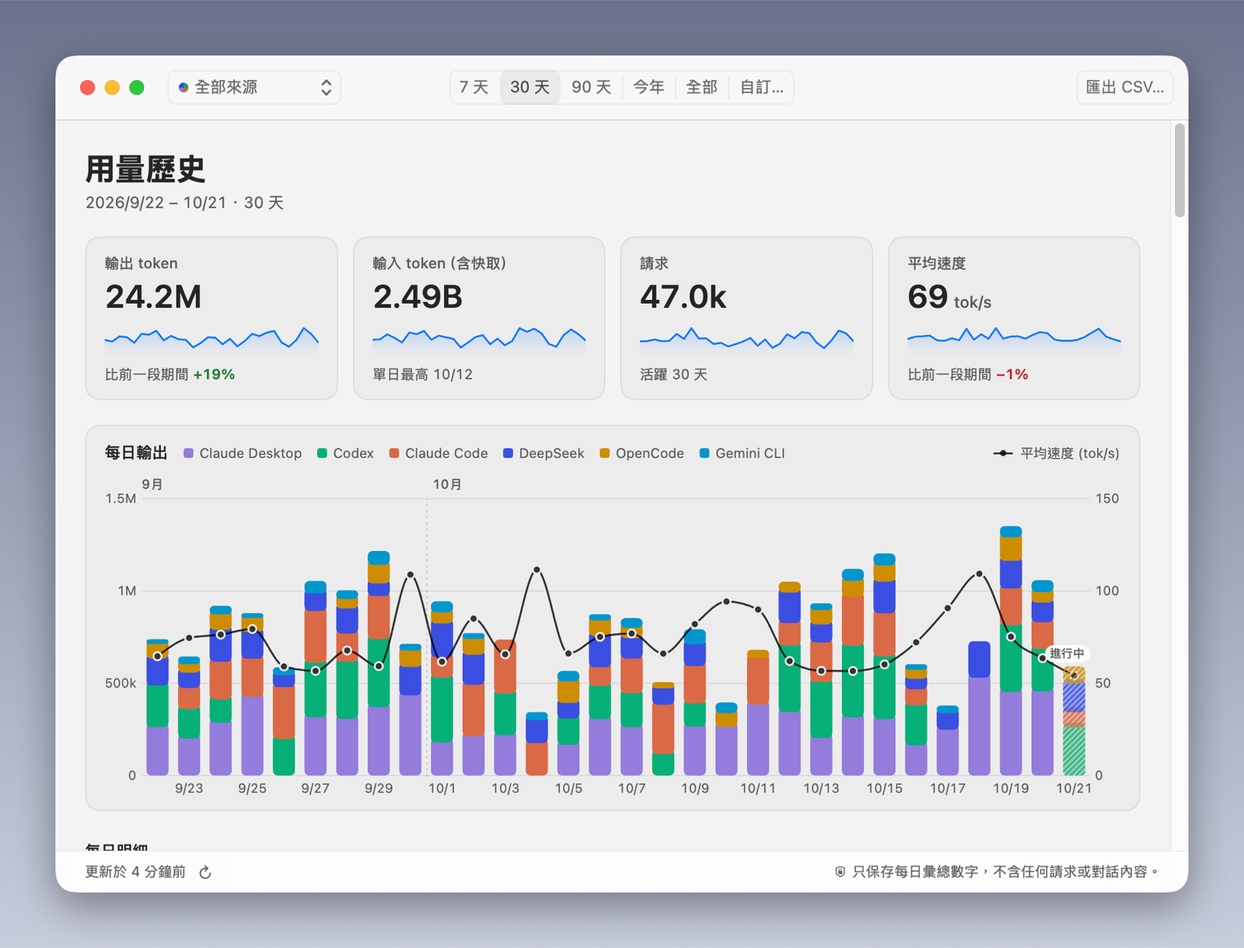
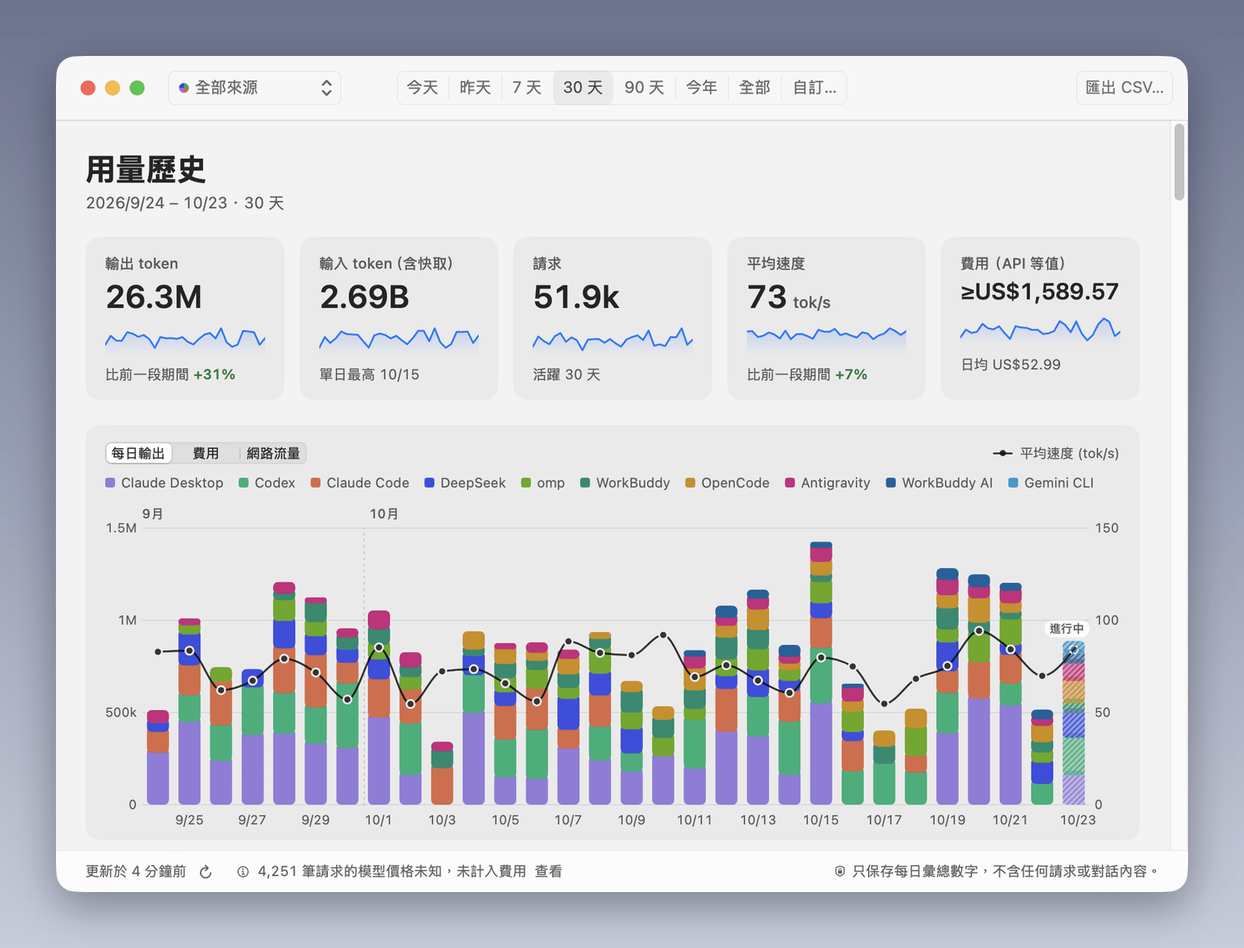
Prepare v1.3.0

diff --git a/README.md b/README.md
@@ -4,7 +4,7 @@
 
 # Agent Speed
 
-**Feel your AI agents run.** A native racing instrument for the live token speed of Codex, Claude Code, Claude Desktop, DeepSeek Harness, OpenCode and Gemini CLI — calm when idle, on fire at the redline.
+**Feel your AI agents run.** A native racing instrument for the live token speed of Codex, Claude Code, Claude Desktop, DeepSeek Harness, OpenCode, Gemini CLI, omp, Antigravity, WorkBuddy and WorkBuddy AI — calm when idle, on fire at the redline.
 
 [English](README.md) · [繁體中文](README.zh-TW.md) · [简体中文](README.zh-CN.md) · [日本語](README.ja.md)
 
@@ -50,18 +50,27 @@ Add `--purge` / `-Purge` to remove settings as well. On Windows you can also uni
 ## What you get
 
 - **Floating orb** — a smoked-glass instrument with a 36-segment LED gauge. As speed climbs, so does its title — from *Walking* and *Bicycle* through *Bullet Train* and *Fighter Jet* to *Rocket* at the redline — while the gauge sweeps through the heat spectrum, a comet races around the ring, sparks fly, embers rise and every finished response sends out a shockwave. Beat your daily peak and it celebrates.
-- **Menu bar / taskbar** — a compact gauge and number that never jitters, right where you look. On Windows it lives inside the taskbar, next to the clock.
+- **Five orb styles, as many orbs as you like** — *LED Gauge*, *Needle Tachometer*, *Liquid Energy*, *Reactor* and *Minimal Ring*. Give each orb its own mix of sources (all of them, one tool, or Claude Code + Codex) and a glass name plate that stays legible on any wallpaper.
+- **Menu bar / taskbar** — a compact gauge and number that never jitters, right where you look: tok/s, money, or tok/s with the live money rate over today's total, plus optional network speed. On Windows it lives inside the taskbar, next to the clock.
 - **Dashboard** — a glowing line drawing of your current speed title's vehicle moves inside its orb — a walker, a bicycle pushing off, all the way to a rocket at the redline — plus a live chart, per-source speed, every active agent (including sub-agents) with its phase, and today's totals. Click a source to open its history.
-- **Usage history** — every day since your oldest log: output and input tokens, requests, average speed and peak, charted by source over any date range, with CSV export. Only daily totals are kept, so your history survives even after your tools delete old logs.
+- **Cost** — what your agents' work would cost at each model's API list prices: live money per second next to tok/s, today's cost in the dashboard and each day's cost in the history. US dollars by default, or any of 38 currencies with daily exchange rates; sources on a flat-rate subscription can be left out. The price table updates daily from this repository.
+- **Network traffic** — upload and download speed per agent or for the whole computer, as two small lines on the orbs, in the menu bar / taskbar and in the dashboard, with each day's traffic in the history. On Windows, per-agent traffic needs a small optional helper service, installed once with administrator approval.
+- **Title themes** — nine ladders of speed titles: *Vehicles*, *Animals*, *Beaufort Scale*, *Cosmos*, *Cultivation*, *Martial Arts*, *Arcane Ranks*, *Game Ranks* and *Engineer Career* — or up to eight sets of your own. Outside *Vehicles*, the dashboard orb shows a glowing title badge.
+- **Usage history** — every day since your oldest log: output and input tokens, requests, average speed and peak, cost and network traffic, charted by source over today, yesterday or any date range, with per-model speed and CSV export. Only daily totals are kept, so your history survives even after your tools delete old logs.
+- **Live reporting (opt-in)** — off by default; if you like, share your live numbers with an API you pick, such as the [Codex Radar](https://codexradar.com/) speed ladder, under a username you choose. Never conversation content, files or project names — see [Privacy](#privacy).
 - **Native everywhere** — SwiftUI + AppKit on macOS, WPF with Fluent/Mica on Windows. Light, dark or automatic theme. English, 繁體中文, 简体中文, 日本語.
 - **Humane** — effects intensity from *Off* to *Max*, respects Reduce Motion and high contrast, click-through mode, magnetic edges, remembers its place on every display, launches at login.
 - **Always current** — checks GitHub Releases in the background and updates with one click, verified by SHA-256.
 
+<p align="center"><img src="docs/images/orb-styles.png" width="760" alt="The five orb styles: LED Gauge, Needle Tachometer, Liquid Energy, Reactor and Minimal Ring"></p>
+
+<p align="center"><img src="docs/images/orbs.png" width="760" alt="Several orbs, each with its own sources and a glass name plate"></p>
+
 <p align="center"><img src="docs/images/hero-vehicle.gif" width="480" alt="The vehicle inside the dashboard orb, from bicycle to rocket"></p>
 
-<p align="center"><img src="docs/images/dashboards.png" width="560" alt="Dashboard in dark and light"></p>
+<p align="center"><img src="docs/images/dashboards.png" width="560" alt="Dashboard in dark (tok/s) and light (cost per second), with today's cost and network traffic"></p>
 
-<p align="center"><img src="docs/images/history.png" width="760" alt="Usage history window"></p>
+<p align="center"><img src="docs/images/history.png" width="760" alt="Usage history window with daily output and cost"></p>
 
 ## How speed is measured
 
@@ -75,16 +84,26 @@ Agent Speed reads the transcripts your agents already write on your disk:
 | DeepSeek Harness (`dsh`, desktop and CLI) | `~/.dsh/sessions` (or `$DSH_HOME/sessions`) |
 | OpenCode (CLI and desktop) | `~/.local/share/opencode/opencode.db` (or `$XDG_DATA_HOME/opencode`) |
 | Gemini CLI | `~/.gemini/tmp` (or `$GEMINI_CLI_HOME/.gemini/tmp`) |
+| omp (oh-my-pi) | `~/.omp/agent/sessions` and every profile in `~/.omp/profiles` (or `$PI_CODING_AGENT_DIR/sessions`) |
+| Antigravity (`agy` CLI, desktop app, IDE and extensions) | `~/.gemini/antigravity-cli`, `~/.gemini/antigravity` and `~/.gemini/antigravity-ide` (their `conversations` folders) |
+| WorkBuddy (Tencent, China edition) | `~/.workbuddy/projects` |
+| WorkBuddy AI (international edition) | `~/.workbuddy-ai/projects` |
 
 **Speed = output tokens ÷ the real time the model spent on them** — from the moment the request was sent until the response finished, including time to first token. Parallel agents add up. While a response is still streaming, it is estimated from that agent's recent measured speed and corrected with the measured value the instant it completes. Optionally you can switch to *total throughput* (input + output).
 
 The full, testable specification lives in [`spec/METRICS.md`](spec/METRICS.md). Both apps are verified against the same fixtures and an independent [reference implementation](spec/tools/reference.py).
 
-Ordinary Claude Desktop chat conversations are not stored on your computer, so they cannot be measured.
+Ordinary Claude Desktop chat conversations are not stored on your computer, so they cannot be measured; WorkBuddy conversations that run in the cloud are not counted either.
 
 ## Privacy
 
-Read-only. Local-only. No telemetry, no accounts. The only network request is the update check against GitHub Releases (it can be turned off), which sends nothing about you. Agent Speed never stores or displays conversation content — only token counts, model names and project folder names. The usage history keeps only daily totals, in a small database on your computer (`~/Library/Application Support/AgentSpeed`, `%LOCALAPPDATA%\AgentSpeed`), and can be cleared in Settings. Updates are verified against the release's SHA-256 checksums before they are installed; the checksums are published with the release, so they catch corrupted or tampered downloads, not a compromised repository.
+Read-only. Local-only. No telemetry, no accounts. Agent Speed makes only three kinds of automatic network requests, and each one sends nothing about you: the update check against GitHub Releases, a daily download of the public model price table from this repository (GitHub, with jsDelivr as a mirror), and — only when you show costs in a currency other than US dollars — a daily download of public exchange rates (open.er-api.com, with the fawazahmed0 currency API and Frankfurter as fallbacks). Every user requests the same files, so no server learns your currency, models or usage. One switch in Settings turns all network access off; costs then use the price table and rates shipped with the app. Agent Speed never stores or displays conversation content — only token counts, model names and project folder names. The usage history keeps only daily totals (including each day's API-equivalent cost), in a small database on your computer (`~/Library/Application Support/AgentSpeed`, `%LOCALAPPDATA%\AgentSpeed`), and can be cleared in Settings. Updates are verified against the release's SHA-256 checksums before they are installed; the checksums are published with the release, so they catch corrupted or tampered downloads, not a compromised repository. The price table is plain data checked against strict rules; it is not signed.
+
+Network traffic: Agent Speed counts how many bytes programs send and receive, on this computer only. It never reads content, addresses or destinations; only live reporting (below), if you turn it on, sends your agents' byte counts to the service you chose. On Windows, per-agent traffic needs an optional helper service that runs as the restricted Local Service account and only counts bytes per process; it is installed and removed with one administrator prompt each ([details](spec/WINDOWS-SERVICE.md)).
+
+Live reporting (optional, off by default; the dashboard offers it once): if you turn it on for an API — for example a public leaderboard service such as the built-in Codex Radar speed ladder (`deng.codexradar.com`) — Agent Speed sends that service your live speed, the tokens used in the last few seconds and, if you leave them on, the API-equivalent cost in US dollars, your agents' network traffic, models in use and a per-tool breakdown, together with the username you choose (it starts as your computer's name; one click picks a random one). It reports every few seconds while your agents work and stops when they rest. It never sends conversation content, prompts, file, folder or project names, or your usage history, and failed reports are never resent. Each report is signed with a key that stays on your computer; the service can tell that reports come from the same device, not whether the numbers are true. You can pause, turn it off, or ask the service to forget your device in Settings.
+
+Every host Agent Speed may contact, and when, is listed in [`spec/NETWORK.md`](spec/NETWORK.md).
 
 ## Build from source
 

diff --git a/README.zh-TW.md b/README.zh-TW.md
@@ -4,7 +4,7 @@
 
 # Agent Speed
 
-**看見你的 AI agent 全速奔跑。** 為 Codex、Claude Code、Claude Desktop、DeepSeek Harness、OpenCode 與 Gemini CLI 打造的原生即時 token 速度儀表——閒置時安靜，衝到紅線時全面燃燒。
+**看見你的 AI agent 全速奔跑。** 為 Codex、Claude Code、Claude Desktop、DeepSeek Harness、OpenCode、Gemini CLI、omp、Antigravity、WorkBuddy 與 WorkBuddy AI 打造的原生即時 token 速度儀表——閒置時安靜，衝到紅線時全面燃燒。
 
 [English](README.md) · [繁體中文](README.zh-TW.md) · [简体中文](README.zh-CN.md) · [日本語](README.ja.md)
 
@@ -45,18 +45,27 @@ curl -fsSL https://raw.githubusercontent.com/zoefix/agent-speed/main/install.sh 
 ## 功能
 
 - **懸浮窗**——煙燻玻璃質感的儀表，36 格 LED 錶盤。速度一路攀升時，稱號也跟著升級——從「步行」「自行車」到「高鐵」「戰鬥機」，衝到紅線就是「火箭」；錶盤沿著熱度光譜點亮、彗星繞圈疾馳、火花四濺、餘燼升騰，每完成一次回應就釋放一道衝擊波；打破今日紀錄還會慶祝。
-- **選單列／工作列**——精簡的儀表與數字，寬度固定不跳動。Windows 版直接嵌在工作列裡、時鐘旁邊。
+- **五種懸浮窗樣式，想開幾個就開幾個**——「LED 儀表」「指針轉速錶」「能量液球」「反應爐」「極簡圓環」。每個懸浮窗都能自由組合來源（全部、單一工具，或 Claude Code＋Codex），下方的玻璃名牌在任何桌布上都清楚好讀。
+- **選單列／工作列**——精簡的儀表與數字，寬度固定不跳動；可顯示 tok/s、金額，或 tok/s 加上即時花費與今日總額，也能加上網路速度。Windows 版直接嵌在工作列裡、時鐘旁邊。
 - **面板**——圓形儀表裡有一台跟著速度稱號變化的發光線條載具：從步行、蹬著自行車出發，一路換到紅線時的火箭；另有即時曲線、各來源速度、所有正在工作的 agent（含子 agent）與其狀態、今日統計。點一下來源就能打開它的用量歷史。
-- **用量歷史**——從最早的紀錄開始，每天的輸出與輸入 token、請求數、平均速度與峰值，可依來源與任意日期區間繪成圖表，並匯出 CSV。只保存每日彙總，即使工具刪除了舊紀錄，歷史也不會消失。
+- **費用**——以各模型官方 API 牌價估算 agent 的工作值多少錢：tok/s 旁的每秒即時花費、面板上的今日費用，以及用量歷史裡每天的費用。預設美元，也能選 38 種貨幣中的任一種（每天更新匯率）；月費訂閱的來源可以排除。價格表每天從本專案自動更新。
+- **網路流量**——各 agent 或整台電腦的上傳／下載速度，以兩行小字顯示在懸浮窗上，選單列／工作列與面板也看得到，用量歷史記錄每天的流量。Windows 若要看各 agent 的流量，需要安裝一次選用的小型輔助服務（需系統管理員同意）。
+- **稱號主題**——九套速度稱號：「交通工具」「動物」「蒲福風級」「宇宙」「修真境界」「武學境界」「魔法位階」「遊戲段位」「工程師職涯」，也能自訂最多 8 組。選交通工具以外的主題時，面板圓圈會顯示發光的稱號徽章。
+- **用量歷史**——從最早的紀錄開始，每天的輸出與輸入 token、請求數、平均速度與峰值、費用與網路流量，可依來源，以今天、昨天或任意日期區間繪成圖表，並看各模型的速度、匯出 CSV。只保存每日彙總，即使工具刪除了舊紀錄，歷史也不會消失。
+- **即時上報（選用）**——預設關閉；想參與的話，可以用你取的使用者名稱，把即時數字分享給你選的 API，例如 [Codex Radar](https://codexradar.com/) 的速蹬天梯。從不傳送對話內容、檔案或專案名稱，詳見[隱私](#隱私)。
 - **全原生**——macOS 使用 SwiftUI + AppKit，Windows 使用 WPF 與 Fluent／Mica。淺色、深色、自動主題；繁體中文、简体中文、English、日本語。
 - **人性化**——特效強度從「關閉」到「熱血全開」，遵循「減少動態效果」與高對比設定，支援滑鼠穿透、邊緣磁吸、記住每個螢幕上的位置、登入時自動啟動。
 - **永遠最新**——背景檢查 GitHub Releases，有新版一鍵更新，並以 SHA-256 驗證。
 
+<p align="center"><img src="docs/images/orb-styles.png" width="760" alt="五種懸浮窗樣式：LED 儀表、指針轉速錶、能量液球、反應爐、極簡圓環"></p>
+
+<p align="center"><img src="docs/images/orbs.png" width="760" alt="多個懸浮窗，各自追蹤不同來源並附玻璃名牌"></p>
+
 <p align="center"><img src="docs/images/hero-vehicle.gif" width="480" alt="面板圓圈裡的載具，從自行車到火箭"></p>
 
-<p align="center"><img src="docs/images/dashboards.png" width="560" alt="深色與淺色面板"></p>
+<p align="center"><img src="docs/images/dashboards.png" width="560" alt="深色（tok/s）與淺色（每秒花費）面板，含今日費用與網路流量"></p>
 
-<p align="center"><img src="docs/images/history.png" width="760" alt="用量歷史視窗"></p>
+<p align="center"><img src="docs/images/history.png" width="760" alt="用量歷史視窗，含每日輸出與費用"></p>
 
 ## 速度怎麼算
 
@@ -70,16 +79,26 @@ Agent Speed 只讀取 agent 本來就寫在你電腦上的紀錄：
 | DeepSeek Harness（`dsh`，桌面版與命令列） | `~/.dsh/sessions`（或 `$DSH_HOME/sessions`） |
 | OpenCode（命令列與桌面版） | `~/.local/share/opencode/opencode.db`（或 `$XDG_DATA_HOME/opencode`） |
 | Gemini CLI | `~/.gemini/tmp`（或 `$GEMINI_CLI_HOME/.gemini/tmp`） |
+| omp（oh-my-pi） | `~/.omp/agent/sessions`，以及 `~/.omp/profiles` 裡的每個設定檔（或 `$PI_CODING_AGENT_DIR/sessions`） |
+| Antigravity（`agy` 命令列、桌面版、IDE 與擴充功能） | `~/.gemini/antigravity-cli`、`~/.gemini/antigravity`、`~/.gemini/antigravity-ide`（其中的 `conversations` 資料夾） |
+| WorkBuddy（騰訊，中國版） | `~/.workbuddy/projects` |
+| WorkBuddy AI（國際版） | `~/.workbuddy-ai/projects` |
 
 **速度＝輸出 token ÷ 模型實際花在這些 token 上的時間**——從送出請求到回應完成，含等待第一個字。多個 agent 平行時會加總。回應還在進行中時，先以該 agent 近期的實測速度估算，完成的瞬間立即以實測值校正。也可以切換成「總吞吐量」（輸入＋輸出）。
 
 完整且可測試的規格見 [`spec/METRICS.md`](spec/METRICS.md)。兩個平台的程式都以同一份測試資料，以及一份獨立的[參考實作](spec/tools/reference.py)交叉驗證。
 
-Claude Desktop 一般聊天對話不會存在本機，因此無法統計。
+Claude Desktop 一般聊天對話不會存在本機，因此無法統計；WorkBuddy 在雲端執行的對話也不會計入。
 
 ## 隱私
 
-只讀、只在本機。不收集資料、不需要帳號；唯一的網路連線是向 GitHub Releases 檢查更新（可關閉），不傳送任何個人資料，安裝更新前會先驗證 SHA-256 校驗碼（校驗碼與發佈版本放在一起，能擋下損毀或被竄改的下載，但無法防範倉庫本身遭入侵）。Agent Speed 不會儲存或顯示對話內容——只用到 token 數量、模型名稱與專案資料夾名稱。用量歷史只保存每日彙總，存在你電腦上的一個小型資料庫（`~/Library/Application Support/AgentSpeed`、`%LOCALAPPDATA%\AgentSpeed`），可在設定中清除。
+唯讀、只在本機運作，沒有遙測、不需帳號。Agent Speed 只會自動發出三種網路請求，而且都不會傳送任何關於你的資料：向 GitHub Releases 檢查更新、每天從本專案下載公開的模型價格表（GitHub，以 jsDelivr 為備援），以及只有在你選擇以美元以外的貨幣顯示費用時，每天下載公開匯率（open.er-api.com，以 fawazahmed0 currency API 和 Frankfurter 為備援）。每位使用者下載的都是同一份檔案，所以伺服器無從得知你的貨幣、模型或用量。設定裡的一個開關就能關閉所有網路連線，此時費用改用 App 內建的價格表與匯率。Agent Speed 從不儲存或顯示對話內容，只使用 token 數量、模型名稱和專案資料夾名稱。用量歷史只保存每日總計（含每日的 API 等值費用），存在你電腦上的一個小型資料庫（`~/Library/Application Support/AgentSpeed`、`%LOCALAPPDATA%\AgentSpeed`），可在設定中清除。更新在安裝前會以該版本發布的 SHA-256 校驗碼驗證；校驗碼與版本一起發布，因此能攔下損壞或遭竄改的下載檔，但無法防範儲存庫本身遭入侵。價格表是依嚴格規則檢查的純資料，沒有數位簽章。
+
+網路流量：Agent Speed 只在本機計算各程式收發的位元組數，從不讀取內容、網址或連線對象；只有在你開啟即時上報（見下文）時，才會把 agent 的位元組數傳送給你選擇的服務。在 Windows 上，要顯示各 agent 的流量需要安裝選用的輔助服務；它以權限受限的「本機服務」帳戶執行，只統計每個程式的位元組數，安裝和移除各需要一次系統管理員確認（[詳細說明](spec/WINDOWS-SERVICE.md)）。
+
+即時上報（選用，預設關閉；面板會詢問一次）：為某個 API（例如公開排行榜服務，像是內建的 Codex Radar 速蹬天梯 `deng.codexradar.com`）開啟後，Agent Speed 會把你的即時速度、最近幾秒用掉的 token 數，以及你保留的項目——以美元計的 API 等值費用、agent 的網路流量、使用中的模型、各工具的明細——連同你選擇的使用者名稱（預設是電腦名稱，一鍵就能換成隨機名稱）傳送給該服務。agent 工作時每隔幾秒上報一次，閒下來就停止。它從不傳送對話內容、提示詞、檔案／資料夾／專案名稱或用量歷史，上報失敗的資料也不會補傳。每筆上報都以只存在你電腦上的金鑰簽章；服務能確認資料來自同一台裝置，但無法確認數字是否正確。可以在設定中暫停、關閉，或要求服務忘記你的裝置。
+
+Agent Speed 可能連線的所有主機與時機，都列在 [`spec/NETWORK.md`](spec/NETWORK.md)。
 
 ## 從原始碼建置
 

diff --git a/README.zh-CN.md b/README.zh-CN.md
@@ -4,7 +4,7 @@
 
 # Agent Speed
 
-**看见你的 AI agent 全速奔跑。** 为 Codex、Claude Code、Claude Desktop、DeepSeek Harness、OpenCode 与 Gemini CLI 打造的原生实时 token 速度仪表——空闲时安静，冲到红线时全面燃烧。
+**看见你的 AI agent 全速奔跑。** 为 Codex、Claude Code、Claude Desktop、DeepSeek Harness、OpenCode、Gemini CLI、omp、Antigravity、WorkBuddy 与 WorkBuddy AI 打造的原生实时 token 速度仪表——空闲时安静，冲到红线时全面燃烧。
 
 [English](README.md) · [繁體中文](README.zh-TW.md) · [简体中文](README.zh-CN.md) · [日本語](README.ja.md)
 
@@ -45,18 +45,27 @@ curl -fsSL https://raw.githubusercontent.com/zoefix/agent-speed/main/install.sh 
 ## 功能
 
 - **悬浮窗**——烟熏玻璃质感的仪表，36 格 LED 表盘。速度一路攀升时，称号也跟着升级——从「步行」「自行车」到「高铁」「战斗机」，冲到红线就是「火箭」；表盘沿着热度光谱点亮、彗星绕圈疾驰、火花四溅、余烬升腾，每完成一次回应就释放一道冲击波；打破今日纪录还会庆祝。
-- **菜单栏／任务栏**——精简的仪表与数字，宽度固定不跳动。Windows 版直接嵌在任务栏里、时钟旁边。
+- **五种悬浮窗样式，想开几个就开几个**——「LED 仪表」「指针转速表」「能量液球」「反应堆」「极简圆环」。每个悬浮窗都能自由组合来源（全部、单个工具，或 Claude Code＋Codex），下方的玻璃名牌在任何壁纸上都清晰易读。
+- **菜单栏／任务栏**——精简的仪表与数字，宽度固定不跳动；可显示 tok/s、金额，或 tok/s 加上实时花费与今日总额，也能加上网络速度。Windows 版直接嵌在任务栏里、时钟旁边。
 - **面板**——圆形仪表里有一台跟着速度称号变化的发光线条载具：从步行、蹬着自行车出发，一路换到红线时的火箭；另有实时曲线、各来源速度、所有正在工作的 agent（含子 agent）及其状态、今日统计。点一下来源就能打开它的用量历史。
-- **用量历史**——从最早的记录开始，每天的输出与输入 token、请求数、平均速度与峰值，可按来源与任意日期区间绘成图表，并导出 CSV。只保存每日汇总，即使工具删除了旧记录，历史也不会消失。
+- **费用**——按各模型官方 API 标价估算 agent 的工作值多少钱：tok/s 旁的每秒实时花费、面板上的今日费用，以及用量历史里每天的费用。默认美元，也能选 38 种货币中的任意一种（每天更新汇率）；包月订阅的来源可以排除。价格表每天从本项目自动更新。
+- **网络流量**——各 agent 或整台电脑的上传／下载速度，以两行小字显示在悬浮窗上，菜单栏／任务栏与面板也能看到，用量历史记录每天的流量。Windows 若要看各 agent 的流量，需要安装一次可选的小型辅助服务（需管理员同意）。
+- **称号主题**——九套速度称号：「交通工具」「动物」「蒲福风级」「宇宙」「修真境界」「武学境界」「魔法位阶」「游戏段位」「工程师生涯」，也能自定义最多 8 组。选择交通工具以外的主题时，面板圆圈会显示发光的称号徽章。
+- **用量历史**——从最早的记录开始，每天的输出与输入 token、请求数、平均速度与峰值、费用与网络流量，可按来源，以今天、昨天或任意日期区间绘成图表，并查看各模型的速度、导出 CSV。只保存每日汇总，即使工具删除了旧记录，历史也不会消失。
+- **实时上报（可选）**——默认关闭；想参与的话，可以用你取的用户名，把实时数字分享给你选择的 API，例如 [Codex Radar](https://codexradar.com/) 的速蹬天梯。从不发送对话内容、文件或项目名称，详见[隐私](#隐私)。
 - **全原生**——macOS 使用 SwiftUI + AppKit，Windows 使用 WPF 与 Fluent／Mica。浅色、深色、自动主题；繁體中文、简体中文、English、日本語。
 - **人性化**——特效强度从「关闭」到「热血全开」，遵循「减弱动态效果」与高对比度设置，支持鼠标穿透、边缘磁吸、记住每块屏幕上的位置、登录时自动启动。
 - **永远最新**——后台检查 GitHub Releases，有新版一键更新，并以 SHA-256 验证。
 
+<p align="center"><img src="docs/images/orb-styles.png" width="760" alt="五种悬浮窗样式：LED 仪表、指针转速表、能量液球、反应堆、极简圆环"></p>
+
+<p align="center"><img src="docs/images/orbs.png" width="760" alt="多个悬浮窗，各自追踪不同来源并附玻璃名牌"></p>
+
 <p align="center"><img src="docs/images/hero-vehicle.gif" width="480" alt="面板圆圈里的载具，从自行车到火箭"></p>
 
-<p align="center"><img src="docs/images/dashboards.png" width="560" alt="深色与浅色面板"></p>
+<p align="center"><img src="docs/images/dashboards.png" width="560" alt="深色（tok/s）与浅色（每秒花费）面板，含今日费用与网络流量"></p>
 
-<p align="center"><img src="docs/images/history.png" width="760" alt="用量历史窗口"></p>
+<p align="center"><img src="docs/images/history.png" width="760" alt="用量历史窗口，含每日输出与费用"></p>
 
 ## 速度怎么算
 
@@ -70,16 +79,26 @@ Agent Speed 只读取 agent 本来就写在你电脑上的记录：
 | DeepSeek Harness（`dsh`，桌面版与命令行） | `~/.dsh/sessions`（或 `$DSH_HOME/sessions`） |
 | OpenCode（命令行与桌面版） | `~/.local/share/opencode/opencode.db`（或 `$XDG_DATA_HOME/opencode`） |
 | Gemini CLI | `~/.gemini/tmp`（或 `$GEMINI_CLI_HOME/.gemini/tmp`） |
+| omp（oh-my-pi） | `~/.omp/agent/sessions`，以及 `~/.omp/profiles` 里的每个配置文件（或 `$PI_CODING_AGENT_DIR/sessions`） |
+| Antigravity（`agy` 命令行、桌面版、IDE 与扩展） | `~/.gemini/antigravity-cli`、`~/.gemini/antigravity`、`~/.gemini/antigravity-ide`（其中的 `conversations` 文件夹） |
+| WorkBuddy（腾讯，国内版） | `~/.workbuddy/projects` |
+| WorkBuddy AI（国际版） | `~/.workbuddy-ai/projects` |
 
 **速度＝输出 token ÷ 模型实际花在这些 token 上的时间**——从发出请求到回应完成，含等待第一个字。多个 agent 并行时会加总。回应仍在进行时，先以该 agent 近期的实测速度估算，完成的瞬间立即以实测值校正。也可以切换成「总吞吐量」（输入＋输出）。
 
 完整且可测试的规格见 [`spec/METRICS.md`](spec/METRICS.md)。两个平台的程序都以同一份测试数据，以及一份独立的[参考实现](spec/tools/reference.py)交叉验证。
 
-Claude Desktop 普通聊天对话不会保存在本机，因此无法统计。
+Claude Desktop 普通聊天对话不会保存在本机，因此无法统计；WorkBuddy 在云端运行的对话也不计入。
 
 ## 隐私
 
-只读、只在本机。不收集数据、不需要账号；唯一的网络连接是向 GitHub Releases 检查更新（可关闭），不发送任何个人数据，安装更新前会先验证 SHA-256 校验码（校验码与发布版本放在一起，能拦下损坏或被篡改的下载，但无法防范仓库本身被入侵）。Agent Speed 不会保存或显示对话内容——只用到 token 数量、模型名称与项目文件夹名称。用量历史只保存每日汇总，存放在你电脑上的一个小型数据库（`~/Library/Application Support/AgentSpeed`、`%LOCALAPPDATA%\AgentSpeed`），可在设置中清除。
+只读、只在本机运行，没有遥测、无需账号。Agent Speed 只会自动发出三种网络请求，而且都不会发送任何关于你的数据：向 GitHub Releases 检查更新、每天从本项目下载公开的模型价格表（GitHub，以 jsDelivr 为备用），以及仅在你选择以美元以外的货币显示费用时，每天下载公开汇率（open.er-api.com，以 fawazahmed0 currency API 和 Frankfurter 为备用）。每位用户下载的都是同一份文件，因此服务器无从得知你的货币、模型或用量。设置里的一个开关即可关闭所有网络连接，此时费用改用应用内置的价格表和汇率。Agent Speed 从不保存或显示对话内容，只使用 token 数量、模型名称和项目文件夹名称。用量历史只保存每日汇总（含每日的 API 等值费用），存放在你电脑上的一个小型数据库（`~/Library/Application Support/AgentSpeed`、`%LOCALAPPDATA%\AgentSpeed`），可在设置中清除。更新在安装前会用该版本发布的 SHA-256 校验和验证；校验和与版本一同发布，因此能拦截损坏或被篡改的下载文件，但无法防范仓库本身被入侵。价格表是按严格规则校验的纯数据，没有数字签名。
+
+网络流量：Agent Speed 只在本机计算各程序收发的字节数，从不读取内容、网址或连接对象；只有在你开启实时上报（见下文）时，才会把 agent 的字节数发送给你选择的服务。在 Windows 上，要显示各 agent 的流量需要安装可选的辅助服务；它以权限受限的“本地服务”账户运行，只统计每个程序的字节数，安装和卸载各需要一次管理员确认（[详细说明](spec/WINDOWS-SERVICE.md)）。
+
+实时上报（可选，默认关闭；面板会询问一次）：为某个 API（例如公开排行榜服务，像是内置的 Codex Radar 速蹬天梯 `deng.codexradar.com`）开启后，Agent Speed 会把你的实时速度、最近几秒用掉的 token 数，以及你保留的项目——以美元计的 API 等值费用、agent 的网络流量、使用中的模型、各工具的明细——连同你选择的用户名（默认是电脑名称，一键即可换成随机名称）发送给该服务。agent 工作时每隔几秒上报一次，空闲时停止。它从不发送对话内容、提示词、文件／文件夹／项目名称或用量历史，上报失败的数据也不会补发。每条上报都用只保存在你电脑上的密钥签名；服务能确认数据来自同一台设备，但无法确认数字是否准确。可以在设置中暂停、关闭，或要求服务忘记你的设备。
+
+Agent Speed 可能连接的所有主机与时机，都列在 [`spec/NETWORK.md`](spec/NETWORK.md)。
 
 ## 从源码构建
 

diff --git a/docs/releases/v1.3.0.md b/docs/releases/v1.3.0.md
@@ -1,0 +1,49 @@
+## What's new / 更新內容
+
+**繁體中文**
+- 新增來源：omp（oh-my-pi）、Google Antigravity、騰訊 WorkBuddy（中國版）與 WorkBuddy AI（國際版）。
+- 看得到花費：tok/s 之外，也能即時看每秒花多少錢。預設美元，共支援 38 種貨幣（每天更新匯率）；金額以各模型官方 API 牌價估算，月費訂閱的來源可標記後排除。面板顯示今日費用，用量歷史記錄每天的費用；價格表每天從 GitHub 自動更新。
+- 網路流量：懸浮窗以兩行小字顯示各 agent 或整台電腦的上傳／下載速度，選單列／工作列與面板也看得到，用量歷史記錄每天的流量。Windows 若要看各 agent 的流量，需要安裝一次選用的小型輔助服務（需系統管理員同意）。
+- 懸浮窗：五種樣式（LED 儀表、指針轉速錶、能量液球、反應爐、極簡圓環），可同時開多個並自由組合來源，下方附玻璃名牌；Windows 改用 Direct3D 繪製，CPU 用量大幅降低。
+- 稱號：九種主題（交通工具、動物、蒲福風級、宇宙、修真境界、武學境界、魔法位階、遊戲段位、工程師職涯），另可自訂最多 8 組；選交通工具以外的主題時，面板圓圈改顯示發光的稱號徽章。
+- 選單列／工作列可選擇顯示 tok/s、金額，或 tok/s＋金額（即時花費與今日總額）。
+- 用量歷史新增「今天」「昨天」，可看各模型的速度，圖表可切換費用與網路流量，CSV 也一併匯出。
+- 即時上報到 API（選用，預設關閉；面板會詢問一次）：可把即時數字分享給你選的服務，例如 Codex Radar 的速蹬天梯。只傳送即時數字（速度、token 數、各工具的明細、以美元計的 API 等值費用、agent 的網路流量、使用中的模型與稱號等級），以你取的使用者名稱上報，並用只存在這台電腦上的金鑰簽章；從不傳送對話內容、檔案、專案名稱或歷史紀錄，隨時可以暫停或關閉。
+- 設定 → 關於新增「網路連線」總開關，一鍵關閉所有連網功能。
+- 其他修正：用量歷史的卡片標題與隱私說明不再被截斷；設定與選單排版更整齊；紅線預設改為滑桿最大值。
+
+**简体中文**
+- 新增来源：omp（oh-my-pi）、Google Antigravity、腾讯 WorkBuddy（国内版）与 WorkBuddy AI（国际版）。
+- 看得到花费：tok/s 之外，也能实时看每秒花多少钱。默认美元，共支持 38 种货币（每天更新汇率）；金额按各模型官方 API 标价估算，包月订阅的来源可标记后排除。面板显示今日费用，用量历史记录每天的费用；价格表每天从 GitHub 自动更新。
+- 网络流量：悬浮窗以两行小字显示各 agent 或整台电脑的上传／下载速度，菜单栏／任务栏与面板也能看到，用量历史记录每天的流量。Windows 若要看各 agent 的流量，需要安装一次可选的小型辅助服务（需管理员同意）。
+- 悬浮窗：五种样式（LED 仪表、指针转速表、能量液球、反应堆、极简圆环），可同时开多个并自由组合来源，下方附玻璃名牌；Windows 改用 Direct3D 绘制，CPU 占用大幅降低。
+- 称号：九种主题（交通工具、动物、蒲福风级、宇宙、修真境界、武学境界、魔法位阶、游戏段位、工程师生涯），另可自定义最多 8 组；选择交通工具以外的主题时，面板圆圈改为显示发光的称号徽章。
+- 菜单栏／任务栏可选择显示 tok/s、金额，或 tok/s＋金额（实时花费与今日总额）。
+- 用量历史新增「今天」「昨天」，可查看各模型的速度，图表可切换费用与网络流量，CSV 也一并导出。
+- 实时上报到 API（可选，默认关闭；面板会询问一次）：可把实时数字分享给你选择的服务，例如 Codex Radar 的速蹬天梯。只发送实时数字（速度、token 数、各工具的明细、以美元计的 API 等值费用、agent 的网络流量、使用中的模型与称号等级），以你取的用户名上报，并用只保存在这台电脑上的密钥签名；从不发送对话内容、文件、项目名称或历史记录，随时可以暂停或关闭。
+- 设置 → 关于新增「网络连接」总开关，一键关闭所有联网功能。
+- 其他修复：用量历史的卡片标题与隐私说明不再被截断；设置与菜单排版更整齐；红线默认改为滑块最大值。
+
+**English**
+- New sources: omp (oh-my-pi), Google Antigravity, Tencent WorkBuddy (China edition) and WorkBuddy AI (international edition).
+- See what it costs: next to tok/s you can watch the money per second, live. US dollars by default, 38 currencies in all, with daily exchange rates. Costs are estimated at each model's official API list prices, and sources on a flat-rate subscription can be marked and left out. The dashboard shows today's cost, Usage History keeps each day's cost, and the price table updates itself daily from GitHub.
+- Network traffic: the orbs show upload and download speed — per agent or for the whole computer — as two small lines, and so can the menu bar / taskbar and the dashboard; Usage History keeps each day's traffic. On Windows, per-agent traffic needs a small optional helper service, installed once with administrator approval.
+- Floating orbs: five styles (LED Gauge, Needle Tachometer, Liquid Energy, Reactor, Minimal Ring), as many orbs as you like with any mix of sources, and glass name plates under them. On Windows the orbs now draw with Direct3D and use far less CPU.
+- Titles: nine themes (Vehicles, Animals, Beaufort Scale, Cosmos, Cultivation, Martial Arts, Arcane Ranks, Game Ranks, Engineer Career) plus up to 8 title sets of your own; with any theme other than Vehicles, the dashboard orb shows a glowing title badge.
+- The menu bar / taskbar can show tok/s, money, or tok/s + money (the live rate over today's total).
+- Usage History adds Today and Yesterday, shows each model's speed, and charts cost and network traffic too; all of it goes into the CSV.
+- Live reporting to an API (optional, off by default; the dashboard offers it once): share your live numbers with a service you pick, such as the Codex Radar speed ladder. Only live numbers are sent — speed, token counts, a per-tool breakdown, API-equivalent cost in US dollars, your agents' network traffic, the models in use and your title level — under a username you choose, signed with a key that never leaves your computer. Never conversation content, files, project names or history. Pause or turn it off at any time.
+- Settings → About has a new Network Access switch that turns every network connection off at once.
+- Fixes: history card titles and the privacy note are no longer cut off; tidier settings and menus; the redline now defaults to the slider's maximum.
+
+**日本語**
+- 新しいソース：omp（oh-my-pi）、Google Antigravity、Tencent WorkBuddy（中国版）と WorkBuddy AI（国際版）。
+- 費用が見える：tok/s に加えて、1 秒あたりの金額もリアルタイムに表示できます。初期設定は米ドルで、全 38 通貨から選べます（為替レートは毎日更新）。金額は各モデルの公式 API 定価で見積もり、定額プランで使うソースはサブスクとして除外できます。ダッシュボードに今日の費用、使用履歴に日ごとの費用を表示し、価格表は GitHub から毎日自動で更新されます。
+- 通信量：オーブに agent ごと、またはコンピューター全体のアップロード／ダウンロード速度を小さな 2 行で表示。メニューバー／タスクバーとダッシュボードにも表示でき、使用履歴に日ごとの通信量を記録します。Windows で agent ごとの通信量を見るには、任意の小さなヘルパーサービスを一度だけインストールします（管理者の承認が必要）。
+- フローティングオーブ：5 つのスタイル（LED ゲージ、針式タコメーター、リキッドエナジー、リアクター、ミニマルリング）。オーブはいくつでも置けて、ソースを自由に組み合わせられ、下にガラスのネームプレートが付きます。Windows では Direct3D で描画するようになり、CPU 使用率が大きく下がりました。
+- 称号：9 つのテーマ（乗り物、動物、風力階級、宇宙、仙道修行、武芸の道、魔法の位階、ゲームランク、エンジニアの道）と、最大 8 個のカスタム称号。乗り物以外のテーマでは、ダッシュボードのメーターに光る称号バッジが表示されます。
+- メニューバー／タスクバーの表示を tok/s、金額、tok/s＋金額（現在の金額と今日の合計）から選べます。
+- 使用履歴に「今日」「昨日」を追加。モデルごとの速度を表示し、費用と通信量のグラフにも切り替えられます。CSV にもすべて書き出します。
+- API へのライブ送信（任意・初期設定はオフ。ダッシュボードで一度だけ案内します）：Codex Radar のスピードランキングなど、選んだサービスにライブの数値を共有できます。送るのはライブの数値だけ（速度、トークン数、ツールごとの内訳、米ドル建ての API 換算費用、agent の通信量、使用中のモデル、称号のレベル）で、選んだユーザー名で送り、このコンピューターから出ない鍵で署名します。会話の内容、ファイル、プロジェクト名、履歴は一切送りません。いつでも一時停止・オフにできます。
+- 設定 → 情報に「ネットワーク接続」のスイッチを追加。すべての通信を一度にオフにできます。
+- 修正：使用履歴のカード見出しとプライバシーの注記が途中で切れなくなりました。設定とメニューのレイアウトを整え、レッドラインの初期値をスライダーの最大値にしました。
